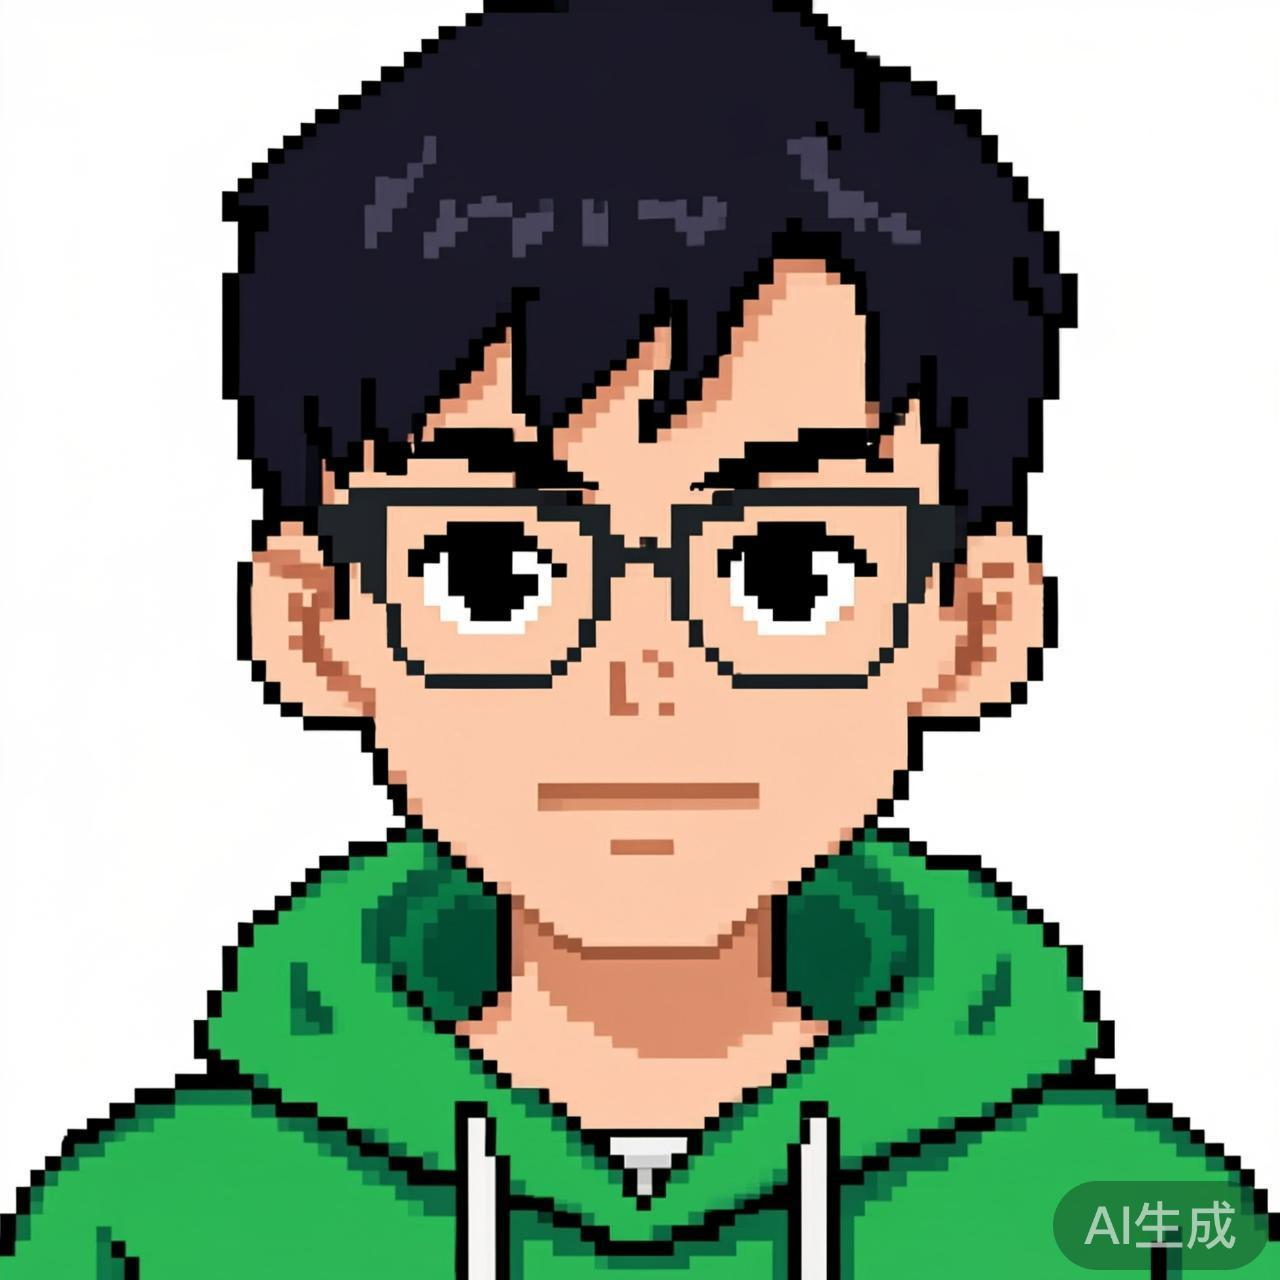
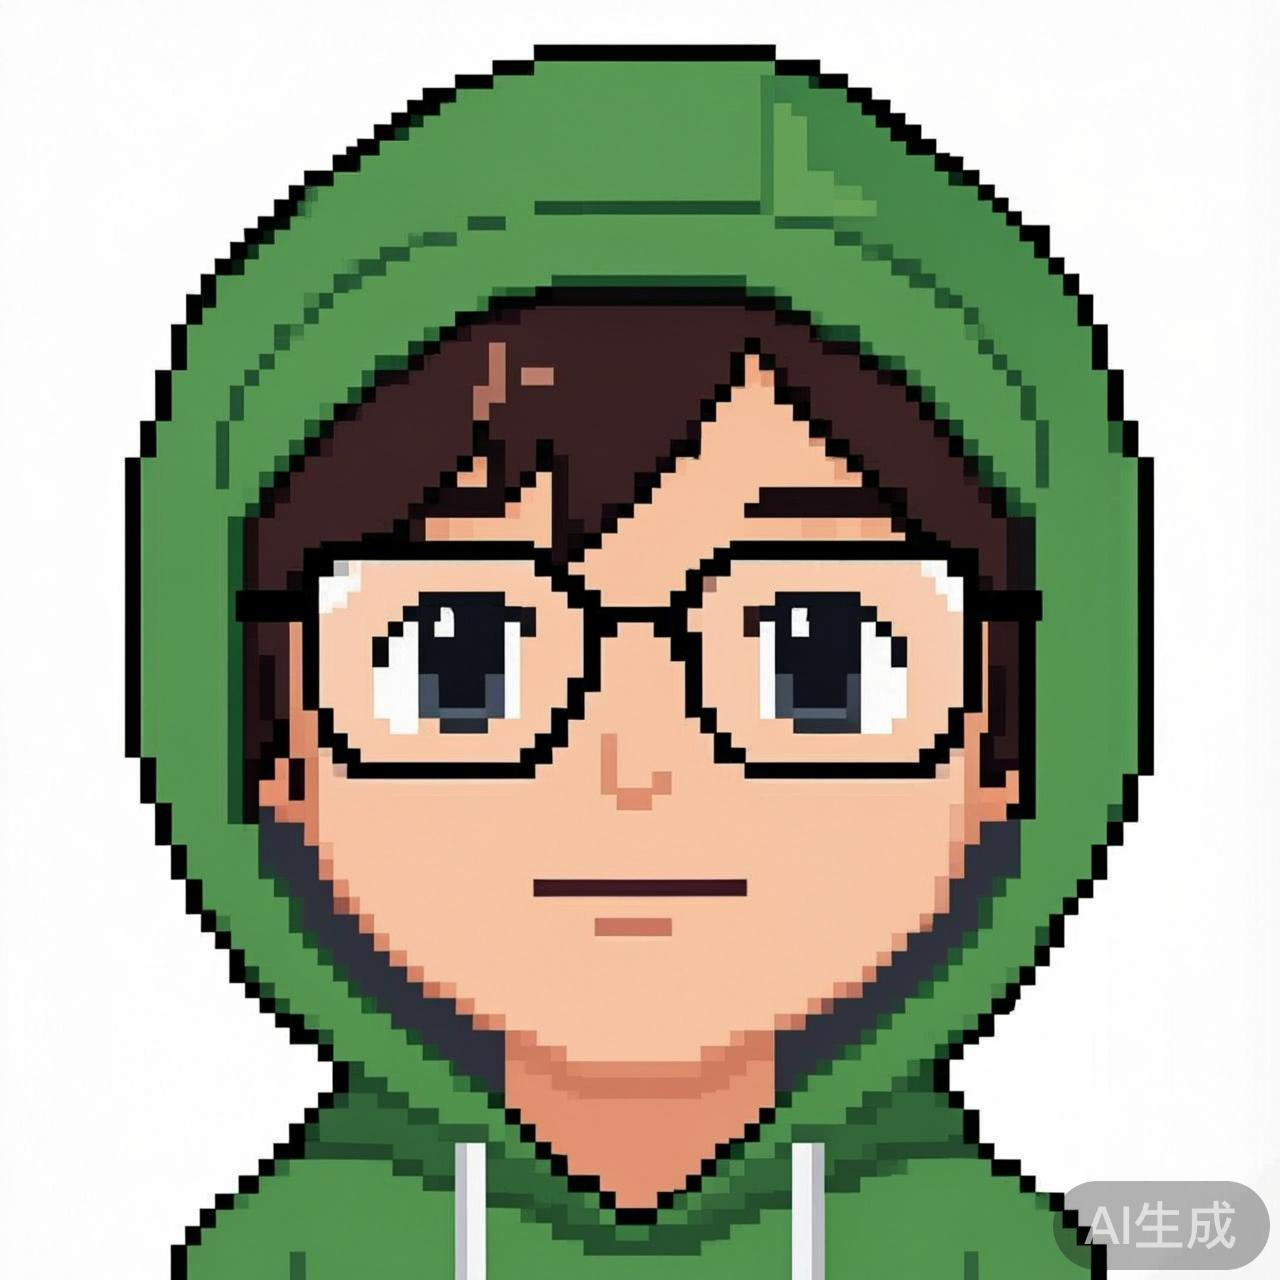
像素形象朝向规范:八原型重生成(4朝左+4居中,无朝右),运行时提示词模板同步加朝向约束;版本i

diff --git a/ui.js b/ui.js
@@ -667,14 +667,14 @@ const PXAI_KEY = 'djz_pxai_v1';
 // GLM-Image 预生成的八大原型头像(assets/px/):基础居民直接用,零延迟零成本
 const PX_STATIC = { value: 1, boarder: 1, suoha: 1, herd: 1, student: 1, sarcasm: 1, anxious: 1, quant: 1 };
 const PX_PROMPT = {
-  value: 'chibi anime elderly man portrait, gray hair, round glasses, calm confident smile, wearing dark suit and tie',
-  boarder: 'chibi anime young man portrait, trendy blue-dyed hair, headphones around neck, excited grin, wearing hoodie',
-  suoha: 'chibi anime man portrait, slicked-back hair, ecstatic shouting expression, wearing bright red shirt',
-  herd: 'chibi anime girl portrait, ordinary brown ponytail, curious worried expression, wearing plain t-shirt',
-  student: 'chibi anime college student portrait, messy short black hair, innocent wide sparkling eyes, wearing casual hoodie',
-  sarcasm: 'chibi anime middle-aged man portrait, stubble chin, sly half-closed eyes, smirking, wearing old jacket',
-  anxious: 'chibi anime woman portrait, messy hair bun, sweating and worried expression, biting lip',
-  quant: 'chibi anime geek portrait, black-rim glasses reflecting light, focused expression, wearing green hoodie',
+  value: 'chibi anime elderly man portrait, gray hair, round glasses, calm confident smile, wearing dark suit and tie, head turned to the left side, three-quarter view facing left, looking toward the left',
+  boarder: 'chibi anime young man portrait, trendy blue-dyed hair, headphones around neck, excited grin, wearing hoodie, facing the camera directly, frontal symmetrical view, looking at the viewer',
+  suoha: 'chibi anime man portrait, slicked-back hair, ecstatic shouting expression, wearing bright red shirt, head turned to the left side, three-quarter view facing left, looking toward the left',
+  herd: 'chibi anime girl portrait, ordinary brown ponytail, curious worried expression, wearing plain t-shirt, facing the camera directly, frontal symmetrical view, looking at the viewer',
+  student: 'chibi anime college student portrait, messy short black hair, innocent wide sparkling eyes, wearing casual hoodie, head turned to the left side, three-quarter view facing left, looking toward the left',
+  sarcasm: 'chibi anime middle-aged man portrait, stubble chin, sly half-closed eyes, smirking, wearing old jacket, facing the camera directly, frontal symmetrical view, looking at the viewer',
+  anxious: 'chibi anime woman portrait, messy hair bun, sweating and worried expression, biting lip, head turned to the left side, three-quarter view facing left, looking toward the left',
+  quant: 'chibi anime geek portrait, black-rim glasses reflecting light, focused expression, wearing green hoodie, facing the camera directly, frontal symmetrical view, looking at the viewer',
 };
 function pxAICache() { try { return JSON.parse(localStorage.getItem(PXAI_KEY) || '{}'); } catch (e) { return {}; } }
 function pxImgFail(name) {   // 生成图挂了(链接过期等):清缓存回退

diff --git a/index.html b/index.html
@@ -297,8 +297,8 @@
   </div>
 </div>
 
-<script src="game.js?v=20260907h"></script>
-<script src="ui.js?v=20260907h"></script>
-<script src="js/zhihu.js?v=20260907h"></script>
+<script src="game.js?v=20260907i"></script>
+<script src="ui.js?v=20260907i"></script>
+<script src="js/zhihu.js?v=20260907i"></script>
 </body>
 </html>
